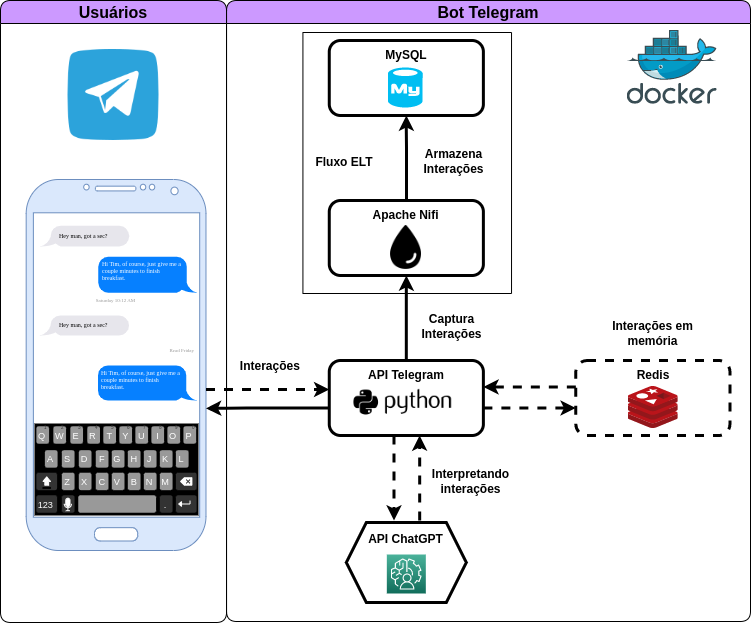
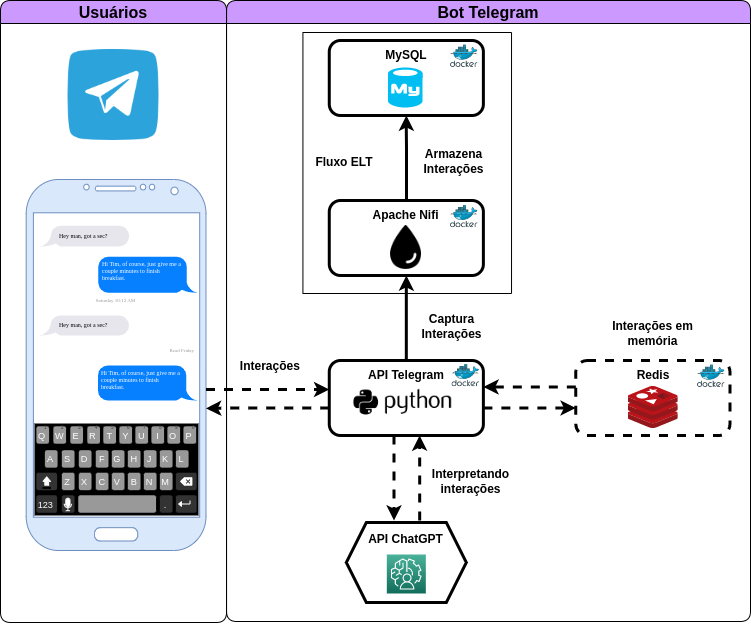
Add regras PEP8 e Update Fluxo Bot 20230410

diff --git a/bot01/app/app.py b/bot01/app/app.py
@@ -28,6 +28,7 @@ TOKEN_TELEGRAM = os.getenv("TOKEN_TELEGRAM", None)
 
 bot = telebot.TeleBot(TOKEN_TELEGRAM)
 
+
 @bot.message_handler(commands=["start"])
 def boas_vindas_bot(message):
     acessos_bot(message)
@@ -38,12 +39,14 @@ def boas_vindas_bot(message):
     for _, comando in COMANDOS.items():
         bot.send_message(message.chat.id, comando)
 
+
 @bot.message_handler(commands=["comando1"])
 def aulas(message):
     acessos_bot(message)
     for index, resposta in enumerate(RESPOSTAS["comando1"]):
         bot.send_message(message.chat.id, resposta)
         sleep(1) if index == 0 else None
+
 
 @bot.message_handler(commands=["comando2"])
 def agenda(message):
@@ -52,12 +55,14 @@ def agenda(message):
         bot.send_message(message.chat.id, resposta)
         sleep(1) if index == 0 else None
 
+
 @bot.message_handler(commands=["comando3"])
 def whatsapp(message):
     acessos_bot(message)
     for index, resposta in enumerate(RESPOSTAS["comando3"]):
         bot.send_message(message.chat.id, resposta)
         sleep(1) if index == 0 else None
+
 
 @bot.message_handler(commands=["comando4"])
 def canal(message):
@@ -66,12 +71,14 @@ def canal(message):
         bot.send_message(message.chat.id, resposta)
         sleep(1) if index == 0 else None
 
+
 @bot.message_handler(commands=["comando5"])
 def github(message):
     acessos_bot(message)
     for index, resposta in enumerate(RESPOSTAS["comando5"]):
         bot.send_message(message.chat.id, resposta)
         sleep(1) if index == 0 else None
+
 
 @bot.message_handler(func=lambda message: re.search(r"^[^/]", message.text))
 def responde_usuario(message):
@@ -84,13 +91,14 @@ def responde_usuario(message):
         mensagem_usuario = message.text
         bot.reply_to(message, saudacao(nome_usuario, mensagem_usuario))
         registra_ultima_interacao(message.from_user.id, interacao)
-    
+
     elif message.text and "sauda" not in interacao and deve_interagir:
         nome_usuario = message.from_user.first_name
-        for id, mensagem_interacao in enumerate(informacao(nome_usuario)):
-            bot.reply_to(message, mensagem_interacao) if id == 0 else None
-            bot.send_message(message.chat.id, mensagem_interacao) if id > 0 else None
+        for id, msg in enumerate(informacao(nome_usuario)):
+            bot.reply_to(message, msg) if id == 0 else None
+            bot.send_message(message.chat.id, msg) if id > 0 else None
         registra_ultima_interacao(message.from_user.id, interacao)
+
 
 if __name__ == "__main__":
     while True:

diff --git a/bot01/app/utils/parametros.py b/bot01/app/utils/parametros.py
@@ -6,47 +6,46 @@ load_dotenv()
 
 COMANDOS = (
     {
-    "comando1": "/comando1 - Add conteúdo aqui...",
-    "comando2": "/comando2 - Add conteúdo aqui...",
-    "comando3": "/comando3 - Add conteúdo aqui...",
-    "comando4": "/comando4 - Add conteúdo aqui...",
-    "comando5": "/comando5 - Add conteúdo aqui...",
-
+        "comando1": "/comando1 - Add conteúdo aqui...",
+        "comando2": "/comando2 - Add conteúdo aqui...",
+        "comando3": "/comando3 - Add conteúdo aqui...",
+        "comando4": "/comando4 - Add conteúdo aqui...",
+        "comando5": "/comando5 - Add conteúdo aqui...",
     }
 )
 
 RESPOSTAS = (
     {
-    "comando1": (
-        [
-            "Ação 1:",
-            "https://..."
-        ]
-    ),
-    "comando2": (
-        [
-            "Ação 2:",
-            "https://..."
-        ]
-    ),
-    "comando3": (
-        [
-            "Ação 3:",
-            "https://..."
-        ]
-    ),
-    "comando4": (
-        [
-            "Ação 4:",
-            "https://..."
-        ]
-    ),
-    "comando5": (
-        [
-            "Ação 5:",
-            "https://..."
-        ]
-    )
+        "comando1": (
+            [
+                "Ação 1:",
+                "https://..."
+            ]
+        ),
+        "comando2": (
+            [
+                "Ação 2:",
+                "https://..."
+            ]
+        ),
+        "comando3": (
+            [
+                "Ação 3:",
+                "https://..."
+            ]
+        ),
+        "comando4": (
+            [
+                "Ação 4:",
+                "https://..."
+            ]
+        ),
+        "comando5": (
+            [
+                "Ação 5:",
+                "https://..."
+            ]
+        )
     }
 )
 
@@ -60,6 +59,7 @@ MENSAGEM_SAUDACAO = (
     ]
 )
 
+
 def boas_vindas(nome: str) -> list:
     texto1 = (
         f"Olá, {nome}. Eu sou o <Nome do seu Assistente> \U0001F916, "
@@ -67,6 +67,7 @@ def boas_vindas(nome: str) -> list:
     )
     texto2 = "Escolha e clique em uma das opções abaixo:"
     return [texto1, texto2]
+
 
 def informacao(nome: str) -> list:
     texto1 = (
@@ -78,6 +79,7 @@ def informacao(nome: str) -> list:
     texto2 = "Esse é o contato direto do <Seu Nome>:"
     texto3 = f"{getenv('URL_TELEGRAM')}"
     return [texto1, texto2, texto3]
+
 
 def saudacao(nome: str, mensagem: str) -> str:
     texto = (

diff --git a/bot01/app/utils/registra_interacoes.py b/bot01/app/utils/registra_interacoes.py
@@ -9,25 +9,41 @@ from uuid import NAMESPACE_OID
 
 caminho_interacoes = f"{Path(abspath(__file__)).parent.parent}/interacoes"
 
+
 def _cria_diretorio(caminho: str) -> bool:
     try:
         Path(caminho).mkdir(parents=True, exist_ok=True)
         return True
     except Exception as _:
+        _ = _
         return False
+
 
 def _registra_interacoes(interacao: str) -> bool:
     try:
-        nome_arquivo = f"interacao-bot-{uuid5(NAMESPACE_OID, str(datetime.now().strftime('%Y%m%d%H%M%S%s')))}.json"
+        code_uuid5 = (
+            uuid5(
+                NAMESPACE_OID,
+                str(datetime.now().strftime('%Y%m%d%H%M%S%s'))
+            )
+        )
+        nome_arquivo = f"interacao-bot-{code_uuid5}.json"
         _cria_diretorio(caminho_interacoes)
         with open(f"{caminho_interacoes}/{nome_arquivo}", "w") as arquivo:
             dump(interacao, arquivo)
         return True
     except Exception as _:
+        _ = _
         return False
+
 
 def acessos_bot(message: object) -> bool:
     try:
+        converte_timestamp = (
+            datetime
+            .fromtimestamp(message.date)
+            .strftime('%Y-%m-%d %H:%M:%S')
+        )
         registro_interacoes = (
             {
                 "origin": "ACESSOS",
@@ -40,14 +56,16 @@ def acessos_bot(message: object) -> bool:
                 "language_code": message.from_user.language_code,
                 "type": message.chat.type,
                 "is_premium": message.from_user.is_premium,
-                "date_time": datetime.fromtimestamp(message.date).strftime('%Y-%m-%d %H:%M:%S'),
+                "date_time": converte_timestamp,
                 "text": message.text
             }
         )
         _registra_interacoes(registro_interacoes)
         return True
     except Exception as _:
+        _ = _
         return False
+
 
 def execucoes_bot(code_erro: str, message_erro: str) -> bool:
     try:
@@ -62,4 +80,5 @@ def execucoes_bot(code_erro: str, message_erro: str) -> bool:
         _registra_interacoes(registro_interacoes)
         return True
     except Exception as _:
+        _ = _
         return False

diff --git a/bot01/app/utils/memoria_interacoes.py b/bot01/app/utils/memoria_interacoes.py
@@ -13,6 +13,7 @@ REDIS_HOST = getenv("REDIS_HOST")
 REDIS_PORT = int(getenv("REDIS_PORT"))
 REDIS_DB = int(getenv("REDIS_DB"))
 
+
 def verifica_ultima_interacao(user_id: int, interacao: str) -> bool:
     try:
         with redis.Redis(host=REDIS_HOST, port=REDIS_PORT, db=REDIS_DB) as r:
@@ -24,9 +25,10 @@ def verifica_ultima_interacao(user_id: int, interacao: str) -> bool:
         execucoes_bot("1002", f"{erro}")
         return True
 
+
 def registra_ultima_interacao(user_id: int, interacao: str) -> bool:
     try:
-        with redis.Redis(host=REDIS_HOST, port=REDIS_PORT, db=REDIS_DB) as r:            
+        with redis.Redis(host=REDIS_HOST, port=REDIS_PORT, db=REDIS_DB) as r:
             tempo_de_vida_horas = 24
             tempo_de_vida = timedelta(hours=tempo_de_vida_horas)
             r.setex(f"{user_id}_{interacao}", tempo_de_vida, "True")

diff --git a/bot01/app/utils/interpretando_interacao.py b/bot01/app/utils/interpretando_interacao.py
@@ -12,6 +12,7 @@ load_dotenv()
 
 TOKEN_CHATGPT3 = getenv("TOKEN_CHATGPT3", None)
 
+
 def interpretando_interacao(interacao: str) -> str:
     try:
         comando_interacao = (
